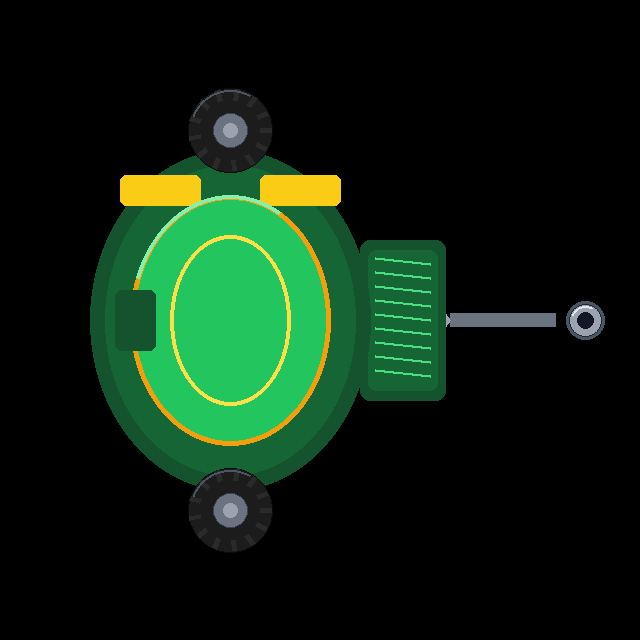
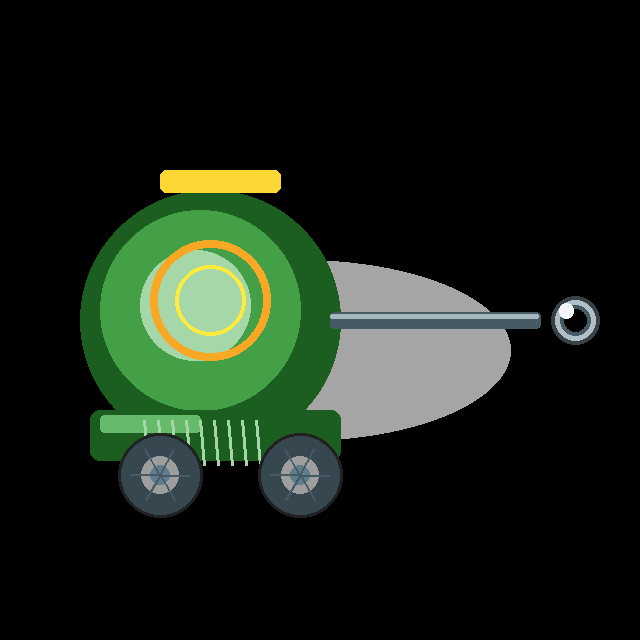
Add gnojnica mission and refresh hitch implement sprites.
Regenerate plug/balirka/ovijalka and add sejalnik/kosilnica/zgrabljalnik/gnojnica PNGs in mini-3D painted style; slurry mission spreads manure overlay on leftField.

Changed region(s): [[0.125, 0.125, 0.9688, 0.875]]

diff --git a/src/game.ts b/src/game.ts
@@ -3,6 +3,7 @@ import {
   sfxChop,
   sfxFeed,
   sfxFell,
+  sfxSplash,
   sfxSuccess,
   sfxWash,
   sfxWrong,
@@ -57,6 +58,8 @@ interface MeadowCell {
   w: number;
   h: number;
   state: MeadowState;
+  /** Slurry / gnojnica wet manure splash. */
+  manured: boolean;
 }
 
 type CornState = 'empty' | 'planted' | 'chopped';
@@ -218,11 +221,12 @@ export class FarmGame {
   > = {
     // PNG hitch eye calibrated from cropped alpha tip (longAxis fractions)
     plug: { rot: Math.PI / 2, offsetX: -0.44, offsetY: 0.0, scale: 1.28 },
-    sejalnik: { rot: 0, offsetX: 0, offsetY: 0.02, scale: 1.42 },
-    kosilnica: { rot: 0, offsetX: 0, offsetY: 0.02, scale: 1.48 },
-    zgrabljalnik: { rot: 0, offsetX: 0, offsetY: 0.03, scale: 1.45 },
+    sejalnik: { rot: Math.PI / 2, offsetX: -0.44, offsetY: 0.0, scale: 1.34 },
+    kosilnica: { rot: Math.PI / 2, offsetX: -0.44, offsetY: 0.0, scale: 1.36 },
+    zgrabljalnik: { rot: Math.PI / 2, offsetX: -0.44, offsetY: 0.0, scale: 1.34 },
     balirka: { rot: Math.PI / 2, offsetX: -0.44, offsetY: 0.0, scale: 1.32 },
     ovijalka: { rot: -Math.PI / 2, offsetX: 0.44, offsetY: 0.0, scale: 1.32 },
+    gnojnica: { rot: Math.PI / 2, offsetX: -0.44, offsetY: 0.0, scale: 1.38 },
     krmilnik: { rot: 0, offsetX: 0, offsetY: 0.02, scale: 1.48 },
     krtaca: { rot: 0, offsetX: 0, offsetY: 0.02, scale: 1.4 },
     silazer: { rot: 0, offsetX: 0, offsetY: 0.02, scale: 1.5 },
@@ -254,6 +258,8 @@ export class FarmGame {
   private tractorDirt = 1;
   /** Cooldown so wash splash beep is not every frame. */
   private washSfxCd = 0;
+  /** Cooldown so slurry splash beep is not every frame. */
+  private slurrySfxCd = 0;
 
   private tractor = { x: 680, y: 860, angle: -Math.PI / 2 };
   private speed = TRACTOR_SPEED;
@@ -350,20 +356,30 @@ export class FarmGame {
 
   private async loadAssets(): Promise<void> {
     try {
-      const [map, tractor, cow, plug, balirka, ovijalka] = await Promise.all([
-        loadImage('./mapa.png'),
-        loadImage('./traktor.png'),
-        loadImage('./krava.png'),
-        loadImage('./plug.png'),
-        loadImage('./balirka.png'),
-        loadImage('./ovijalka.png'),
-      ]);
+      const [map, tractor, cow, plug, balirka, ovijalka, gnojnica, sejalnik, kosilnica, zgrabljalnik] =
+        await Promise.all([
+          loadImage('./mapa.png'),
+          loadImage('./traktor.png'),
+          loadImage('./krava.png'),
+          loadImage('./plug.png'),
+          loadImage('./balirka.png'),
+          loadImage('./ovijalka.png'),
+          loadImage('./gnojnica.png'),
+          loadImage('./sejalnik.png'),
+          loadImage('./kosilnica.png'),
+          loadImage('./zgrabljalnik.png'),
+        ]);
       this.mapImg = map;
       this.tractorImg = cropTransparent(chromaKeyBlack(tractor));
       this.cowImg = chromaKeyGreen(cow);
-      this.implementImgs.plug = cropTransparent(chromaKeyBlack(plug));
-      this.implementImgs.balirka = cropTransparent(chromaKeyBlack(balirka));
-      this.implementImgs.ovijalka = cropTransparent(chromaKeyBlack(ovijalka));
+      const keyCrop = (img: HTMLImageElement) => cropTransparent(chromaKeyBlack(img));
+      this.implementImgs.plug = keyCrop(plug);
+      this.implementImgs.balirka = keyCrop(balirka);
+      this.implementImgs.ovijalka = keyCrop(ovijalka);
+      this.implementImgs.gnojnica = keyCrop(gnojnica);
+      this.implementImgs.sejalnik = keyCrop(sejalnik);
+      this.implementImgs.kosilnica = keyCrop(kosilnica);
+      this.implementImgs.zgrabljalnik = keyCrop(zgrabljalnik);
       try {
         const krm = await loadImage('./krmilnik.png');
         this.implementImgs.krmilnik = cropTransparent(chromaKeyGreen(krm));
@@ -442,6 +458,7 @@ export class FarmGame {
           w: mcw,
           h: mch,
           state: 'tall',
+          manured: false,
         });
       }
     }
@@ -500,6 +517,7 @@ export class FarmGame {
     this.bales = [];
     this.tractorDirt = 1;
     this.washSfxCd = 0;
+    this.slurrySfxCd = 0;
 
     // Open barn: two rows of stalls — govedo + ovce mixed, alley in the middle
     const barn = this.zones.find((z) => z.id === 'openBarn')!;
@@ -869,6 +887,7 @@ export class FarmGame {
     const m = this.currentMission();
     if (m.id === 'grain') return this.zones.find((z) => z.id === 'rightField');
     if (m.id === 'hay') return this.zones.find((z) => z.id === 'leftField');
+    if (m.id === 'gnojnica') return this.zones.find((z) => z.id === 'leftField');
     if (m.id === 'koruza') return this.zones.find((z) => z.id === 'cornField');
     if (m.id === 'gozd') {
       if (this.currentImplement() === 'prikolica' && this.trailerLogs > 0) {
@@ -1061,6 +1080,7 @@ export class FarmGame {
   private update(dt: number): void {
     if (this.wrongEquipFlash > 0) this.wrongEquipFlash -= dt;
     if (this.washSfxCd > 0) this.washSfxCd -= dt;
+    if (this.slurrySfxCd > 0) this.slurrySfxCd -= dt;
 
     this.updateAnimals(dt);
     this.updateWanderers(dt);
@@ -1249,6 +1269,9 @@ export class FarmGame {
         else if (impl === 'balirka') this.workBaleMeadow();
         else if (impl === 'ovijalka') this.workWrapMeadow();
         break;
+      case 'gnojnica':
+        if (impl === 'gnojnica') this.workSlurry();
+        break;
       case 'koruza':
         if (impl === 'sejalnik') this.workPlantCorn();
         else if (impl === 'kombajn') this.workChopCorn();
@@ -1263,6 +1286,36 @@ export class FarmGame {
       case 'wash':
         this.workWash();
         break;
+    }
+  }
+
+  /** Spread slurry (gnojnica) over leftField meadow cells. */
+  private workSlurry(): void {
+    let done = 0;
+    let justHit = false;
+    for (const cell of this.meadowCells) {
+      if (!cell.manured && this.tractorHitsCell(cell.x, cell.y, cell.w, cell.h)) {
+        cell.manured = true;
+        justHit = true;
+        this.spawnParticles(cell.x, cell.y, 5, [
+          '#5d4037',
+          '#6d4c41',
+          '#4e342e',
+          '#8d6e63',
+          '#33691e',
+        ], 55);
+      }
+      if (cell.manured) done++;
+    }
+    if (justHit && this.slurrySfxCd <= 0) {
+      sfxSplash();
+      this.slurrySfxCd = 0.22;
+    }
+    this.missionProgress = done / this.meadowCells.length;
+    this.updateHud();
+    if (done >= this.meadowCells.length) {
+      this.missionProgress = 1;
+      this.completePhase();
     }
   }
 
@@ -2151,6 +2204,48 @@ export class FarmGame {
         }
       }
       // baled / wrapped drawn as bales
+
+      // Gnojnica wet manure splash (brown-green sheen) — on top of hay states
+      if (cell.manured) {
+        ctx.fillStyle = 'rgba(62, 48, 28, 0.42)';
+        ctx.fillRect(rx, ry, rw, rh);
+        const g = ctx.createRadialGradient(
+          cell.x - 8,
+          cell.y - 6,
+          4,
+          cell.x,
+          cell.y,
+          Math.max(rw, rh) * 0.55,
+        );
+        g.addColorStop(0, 'rgba(110, 90, 40, 0.35)');
+        g.addColorStop(0.45, 'rgba(70, 90, 35, 0.28)');
+        g.addColorStop(1, 'rgba(45, 55, 25, 0.12)');
+        ctx.fillStyle = g;
+        ctx.beginPath();
+        ctx.ellipse(cell.x, cell.y, rw * 0.42, rh * 0.38, 0.2, 0, Math.PI * 2);
+        ctx.fill();
+        // Wet speckles
+        ctx.fillStyle = 'rgba(55, 40, 22, 0.55)';
+        for (let s = 0; s < 7; s++) {
+          const sx = rx + 8 + ((s * 37 + i * 11) % Math.max(8, Math.floor(rw - 16)));
+          const sy = ry + 8 + ((s * 53 + i * 17) % Math.max(8, Math.floor(rh - 16)));
+          ctx.beginPath();
+          ctx.ellipse(sx, sy, 3 + (s % 3), 2 + (s % 2), 0.4, 0, Math.PI * 2);
+          ctx.fill();
+        }
+        // Glossy wet edge
+        ctx.strokeStyle = 'rgba(140, 160, 70, 0.28)';
+        ctx.lineWidth = 2;
+        ctx.strokeRect(rx + 2, ry + 2, rw - 4, rh - 4);
+      } else if (this.currentMission().id === 'gnojnica' && !this.gameDone) {
+        // Highlight remaining dry cells during slurry mission
+        const pulse = 0.22 + Math.sin(this.pulse * 2.3 + i * 0.4) * 0.12;
+        ctx.fillStyle = `rgba(160, 120, 60, ${pulse})`;
+        ctx.fillRect(rx, ry, rw, rh);
+        ctx.strokeStyle = `rgba(255, 230, 140, ${0.25 + pulse * 0.4})`;
+        ctx.lineWidth = 2;
+        ctx.strokeRect(rx + 1, ry + 1, rw - 2, rh - 2);
+      }
     }
   }
 
@@ -2475,7 +2570,11 @@ export class FarmGame {
     ctx.save();
     ctx.fillStyle = 'rgba(20, 30, 20, 0.22)';
     const shadowLen =
-      id === 'kombajn' ? size * 1.45 : id === 'prikolica' ? size * 0.85 : size * 0.55;
+      id === 'kombajn'
+        ? size * 1.45
+        : id === 'prikolica' || id === 'gnojnica'
+          ? size * 0.85
+          : size * 0.55;
     ctx.beginPath();
     ctx.ellipse(0, rear - shadowLen * 0.35, size * 0.32, size * 0.12, 0, 0, Math.PI * 2);
     ctx.fill();
@@ -2930,6 +3029,65 @@ export class FarmGame {
       }
       wheel(-22, -8, 7.5);
       wheel(22, -8, 7.5);
+      return;
+    }
+    if (id === "gnojnica") {
+      ctx.fillStyle = "rgba(0,0,0,0.2)";
+      ctx.beginPath();
+      ctx.ellipse(0, -28, 30, 12, 0, 0, Math.PI * 2);
+      ctx.fill();
+      // splash pipes (trailing −Y)
+      ctx.fillStyle = "#546e7a";
+      roundRectPath(ctx, -28, -78, 56, 10, 3);
+      ctx.fill();
+      for (let i = -2; i <= 2; i++) {
+        const x = i * 11;
+        ctx.strokeStyle = "#78909c";
+        ctx.lineWidth = 3;
+        ctx.beginPath();
+        ctx.moveTo(x, -72);
+        ctx.lineTo(x, -92);
+        ctx.stroke();
+        ctx.fillStyle = "#5d4037";
+        ctx.beginPath();
+        ctx.ellipse(x, -94, 3.5, 2.5, 0, 0, Math.PI * 2);
+        ctx.fill();
+      }
+      // red tanker body
+      const tank = ctx.createLinearGradient(-28, -70, 28, -10);
+      tank.addColorStop(0, "#b71c1c");
+      tank.addColorStop(0.4, "#e53935");
+      tank.addColorStop(1, "#8e0000");
+      ctx.fillStyle = tank;
+      roundRectPath(ctx, -28, -68, 56, 48, 14);
+      ctx.fill();
+      ctx.fillStyle = "#ef5350";
+      roundRectPath(ctx, -22, -62, 24, 12, 8);
+      ctx.fill();
+      // green farm stripe
+      ctx.fillStyle = "#2e7d32";
+      roundRectPath(ctx, -24, -42, 48, 8, 3);
+      ctx.fill();
+      ctx.fillStyle = "#81c784";
+      roundRectPath(ctx, -22, -40, 18, 4, 2);
+      ctx.fill();
+      ctx.fillStyle = "#fdd835";
+      roundRectPath(ctx, -22, -28, 44, 5, 2);
+      ctx.fill();
+      // hatch
+      ctx.fillStyle = "#455a64";
+      ctx.beginPath();
+      ctx.arc(0, -52, 7, 0, Math.PI * 2);
+      ctx.fill();
+      ctx.fillStyle = "#90a4ae";
+      ctx.beginPath();
+      ctx.arc(0, -52, 3.5, 0, Math.PI * 2);
+      ctx.fill();
+      ctx.fillStyle = "#37474f";
+      roundRectPath(ctx, -24, -22, 48, 10, 3);
+      ctx.fill();
+      wheel(-16, -8, 8);
+      wheel(16, -8, 8);
       return;
     }
     if (id === "plug") {

diff --git a/src/missions.ts b/src/missions.ts
@@ -1,4 +1,11 @@
-export type MissionId = 'grain' | 'hay' | 'koruza' | 'gozd' | 'feed' | 'wash';
+export type MissionId =
+  | 'grain'
+  | 'hay'
+  | 'gnojnica'
+  | 'koruza'
+  | 'gozd'
+  | 'feed'
+  | 'wash';
 
 export type ImplementId =
   | 'plug'
@@ -7,6 +14,7 @@ export type ImplementId =
   | 'zgrabljalnik'
   | 'balirka'
   | 'ovijalka'
+  | 'gnojnica'
   | 'silazer'
   | 'kombajn'
   | 'zaga'
@@ -43,6 +51,7 @@ export const IMPLEMENTS: {
   { id: 'zgrabljalnik', label: 'Zgrabljalnik', shortLabel: 'Zgrabl.', emoji: '🧹' },
   { id: 'balirka', label: 'Balirka', shortLabel: 'Balir.', emoji: '🟡' },
   { id: 'ovijalka', label: 'Ovijalka', shortLabel: 'Ovija.', emoji: '🟢' },
+  { id: 'gnojnica', label: 'Gnojnica', shortLabel: 'Gnojn.', emoji: '🟤' },
   { id: 'kombajn', label: 'Kombajn', shortLabel: 'Komb.', emoji: '🚜' },
   { id: 'zaga', label: 'Žaga', shortLabel: 'Žaga', emoji: '🪚' },
   { id: 'prikolica', label: 'Prikolica', shortLabel: 'Prikol.', emoji: '🪵' },
@@ -90,6 +99,17 @@ export const MISSIONS: Mission[] = [
       {
         implement: 'ovijalka',
         hint: 'Ovijalka: ovij bale v zeleno folijo.',
+      },
+    ],
+  },
+  {
+    id: 'gnojnica',
+    title: 'Vožnja gnojnice na travnik',
+    success: 'Travnik je pognojen z gnojnico!',
+    phases: [
+      {
+        implement: 'gnojnica',
+        hint: 'Gnojnica: razvoz gnojnice po travniku.',
       },
     ],
   },

diff --git a/src/sfx.ts b/src/sfx.ts
@@ -95,3 +95,10 @@ export function sfxFell(): void {
   tone(90, 0.16, 'sine', 0.1, 0, 55);
   tone(200, 0.08, 'triangle', 0.05, 0.05, 80);
 }
+
+/** Slurry splash — soft wet plop. */
+export function sfxSplash(): void {
+  tone(240, 0.07, 'sine', 0.045, 0, 110);
+  tone(160, 0.1, 'triangle', 0.04, 0.04, 70);
+  tone(90, 0.12, 'sine', 0.05, 0.08);
+}
